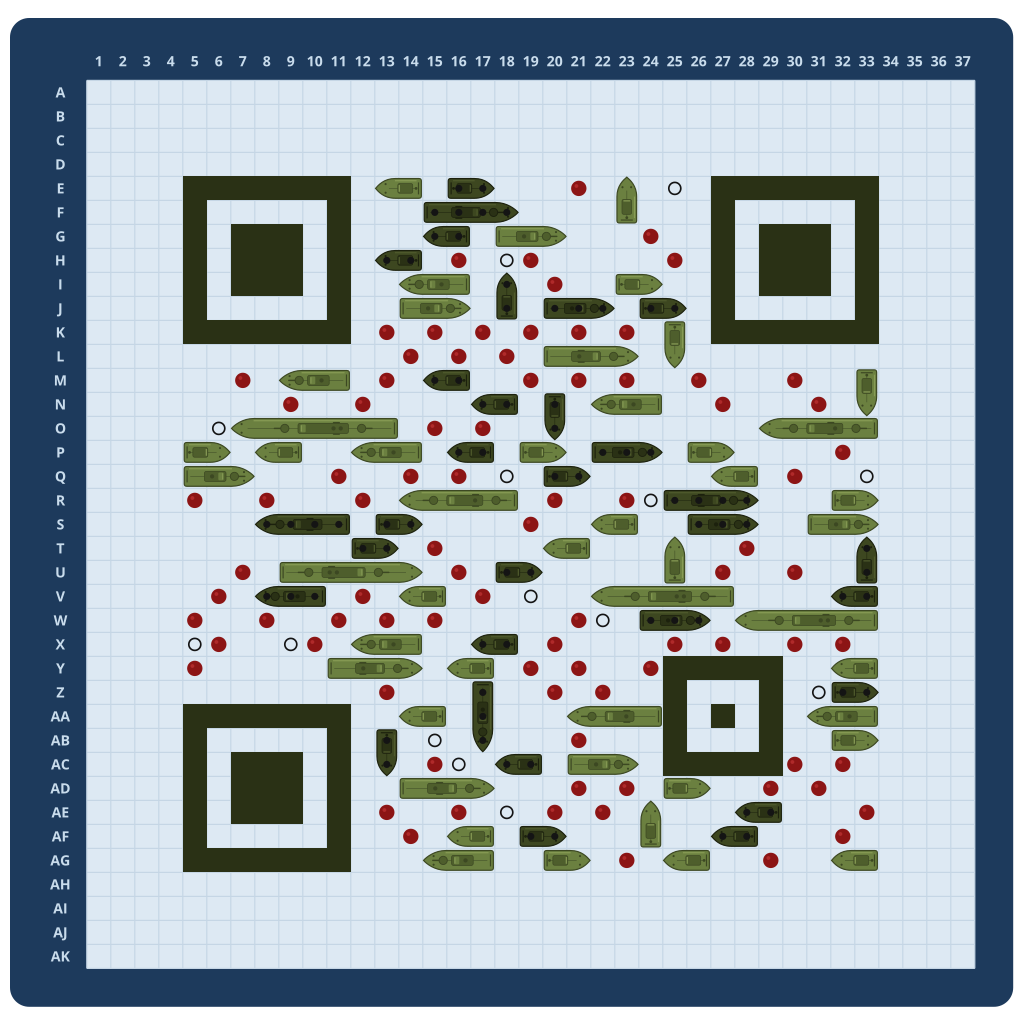
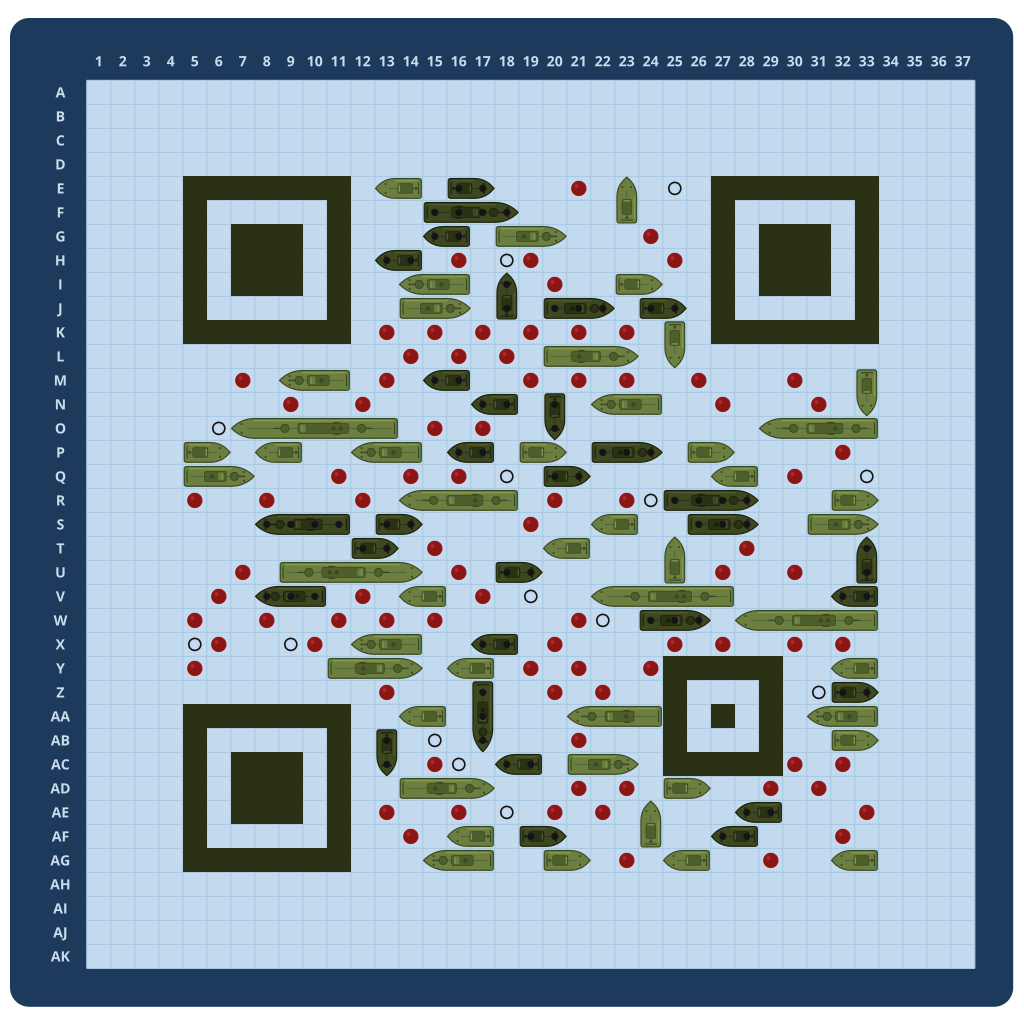
style: make Sea Battle's sea bluer
Claude-Session: https://claude.ai/code/session_01VbyYxozHcVTyuPyhhYTroQ

diff --git a/src/games.ts b/src/games.ts
@@ -135,8 +135,8 @@ export function goBoard(
 // hit peg, and a few light modules hold black miss rings. Under the finder and alignment patterns, solid squares,
 // so scanners find those shapes whole. Text above and below is lettered in
 // pale blue on the case.
-const SEA = "#dde9f3",
-  SEA_LINE = "#c5d6e5",
+const SEA = "#c4dbef",
+  SEA_LINE = "#abc8e3",
   CASE = "#1d3a5c",
   CASE_LABEL = "#c9dcec",
   // Ships still afloat in a light army green and sunk ones in a dark one,
